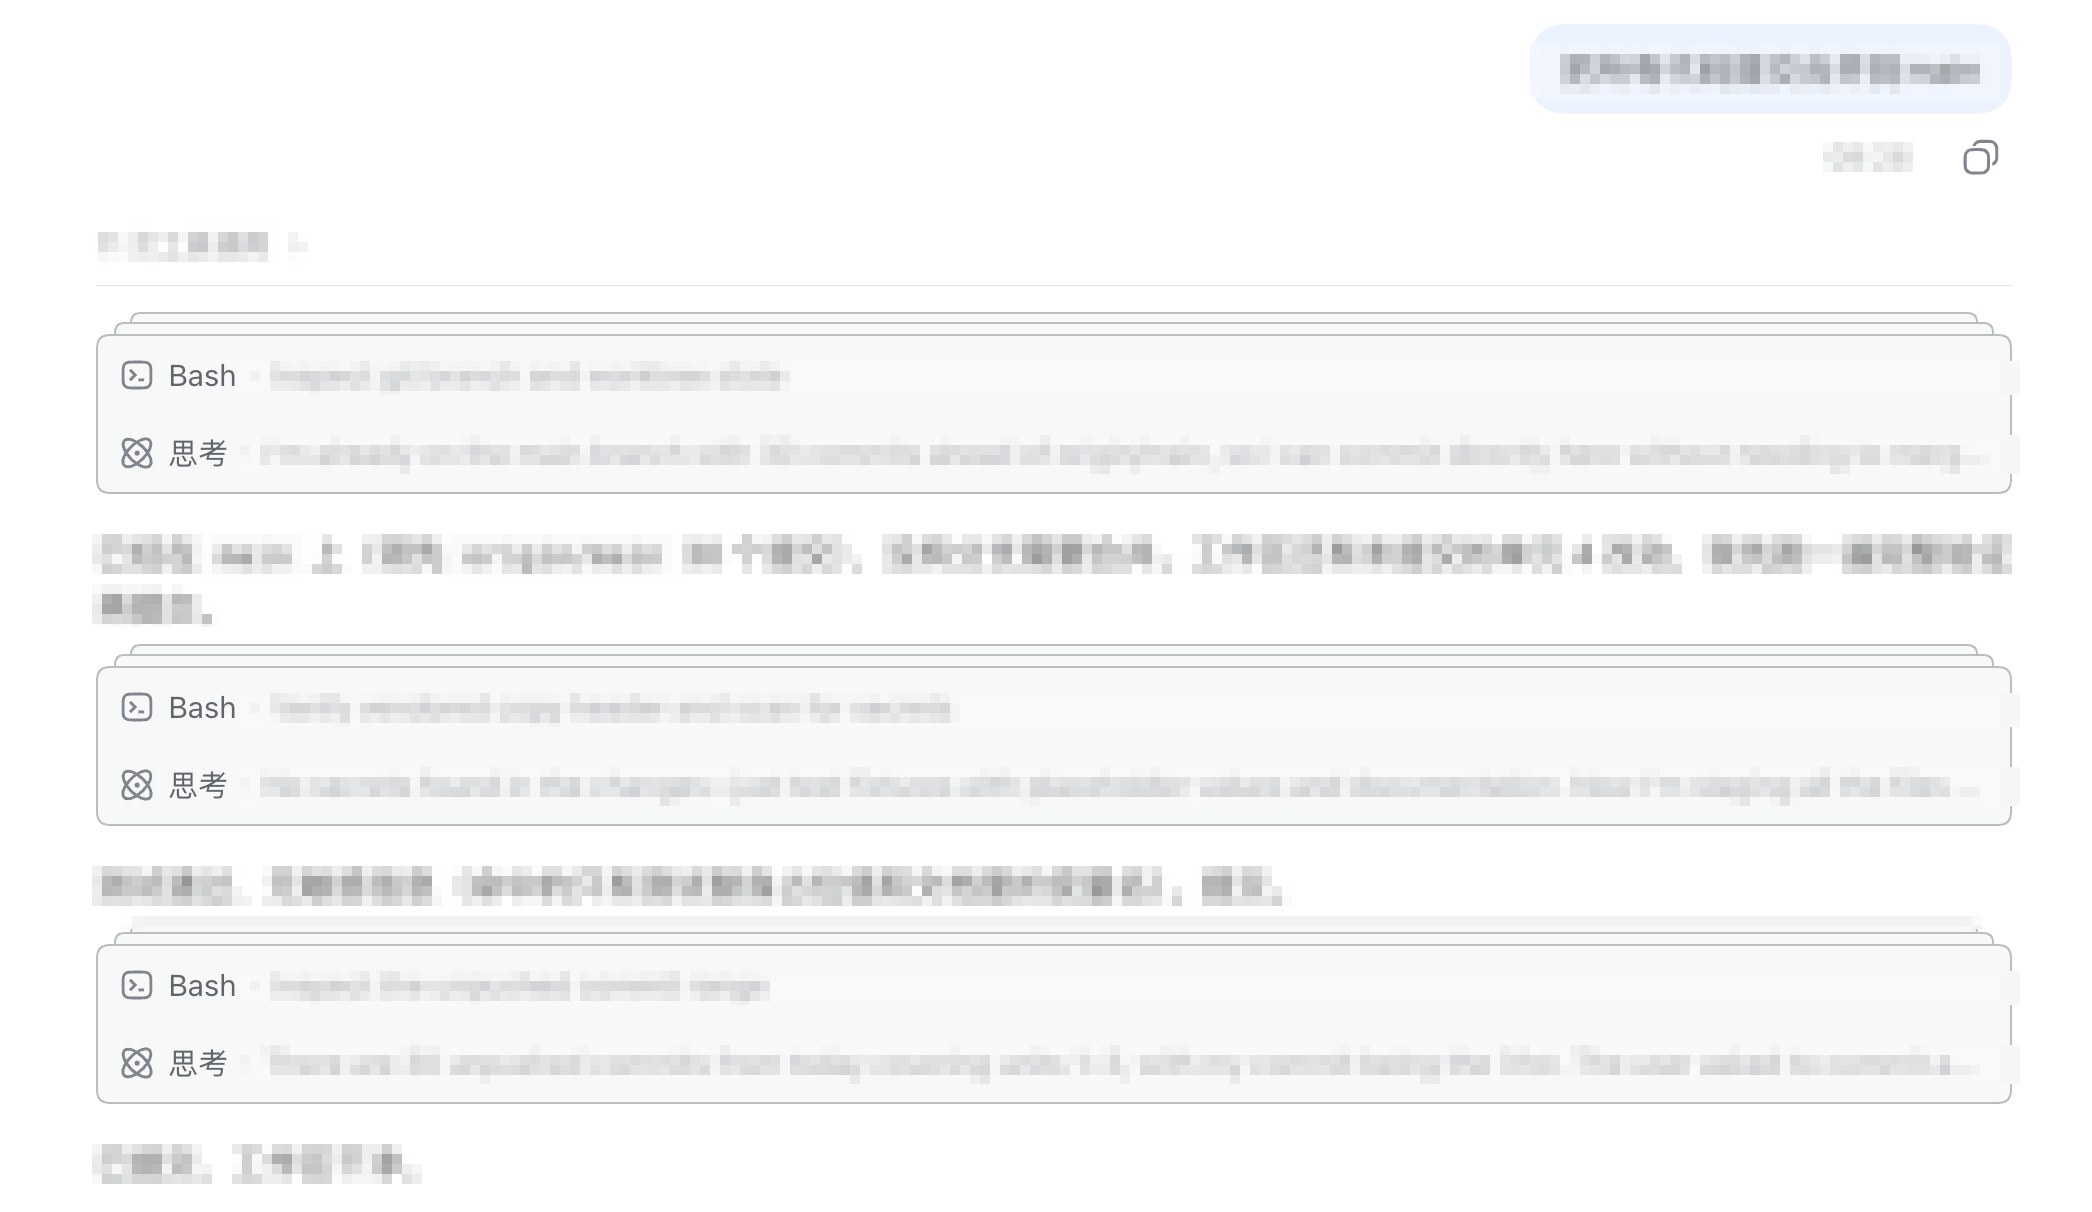
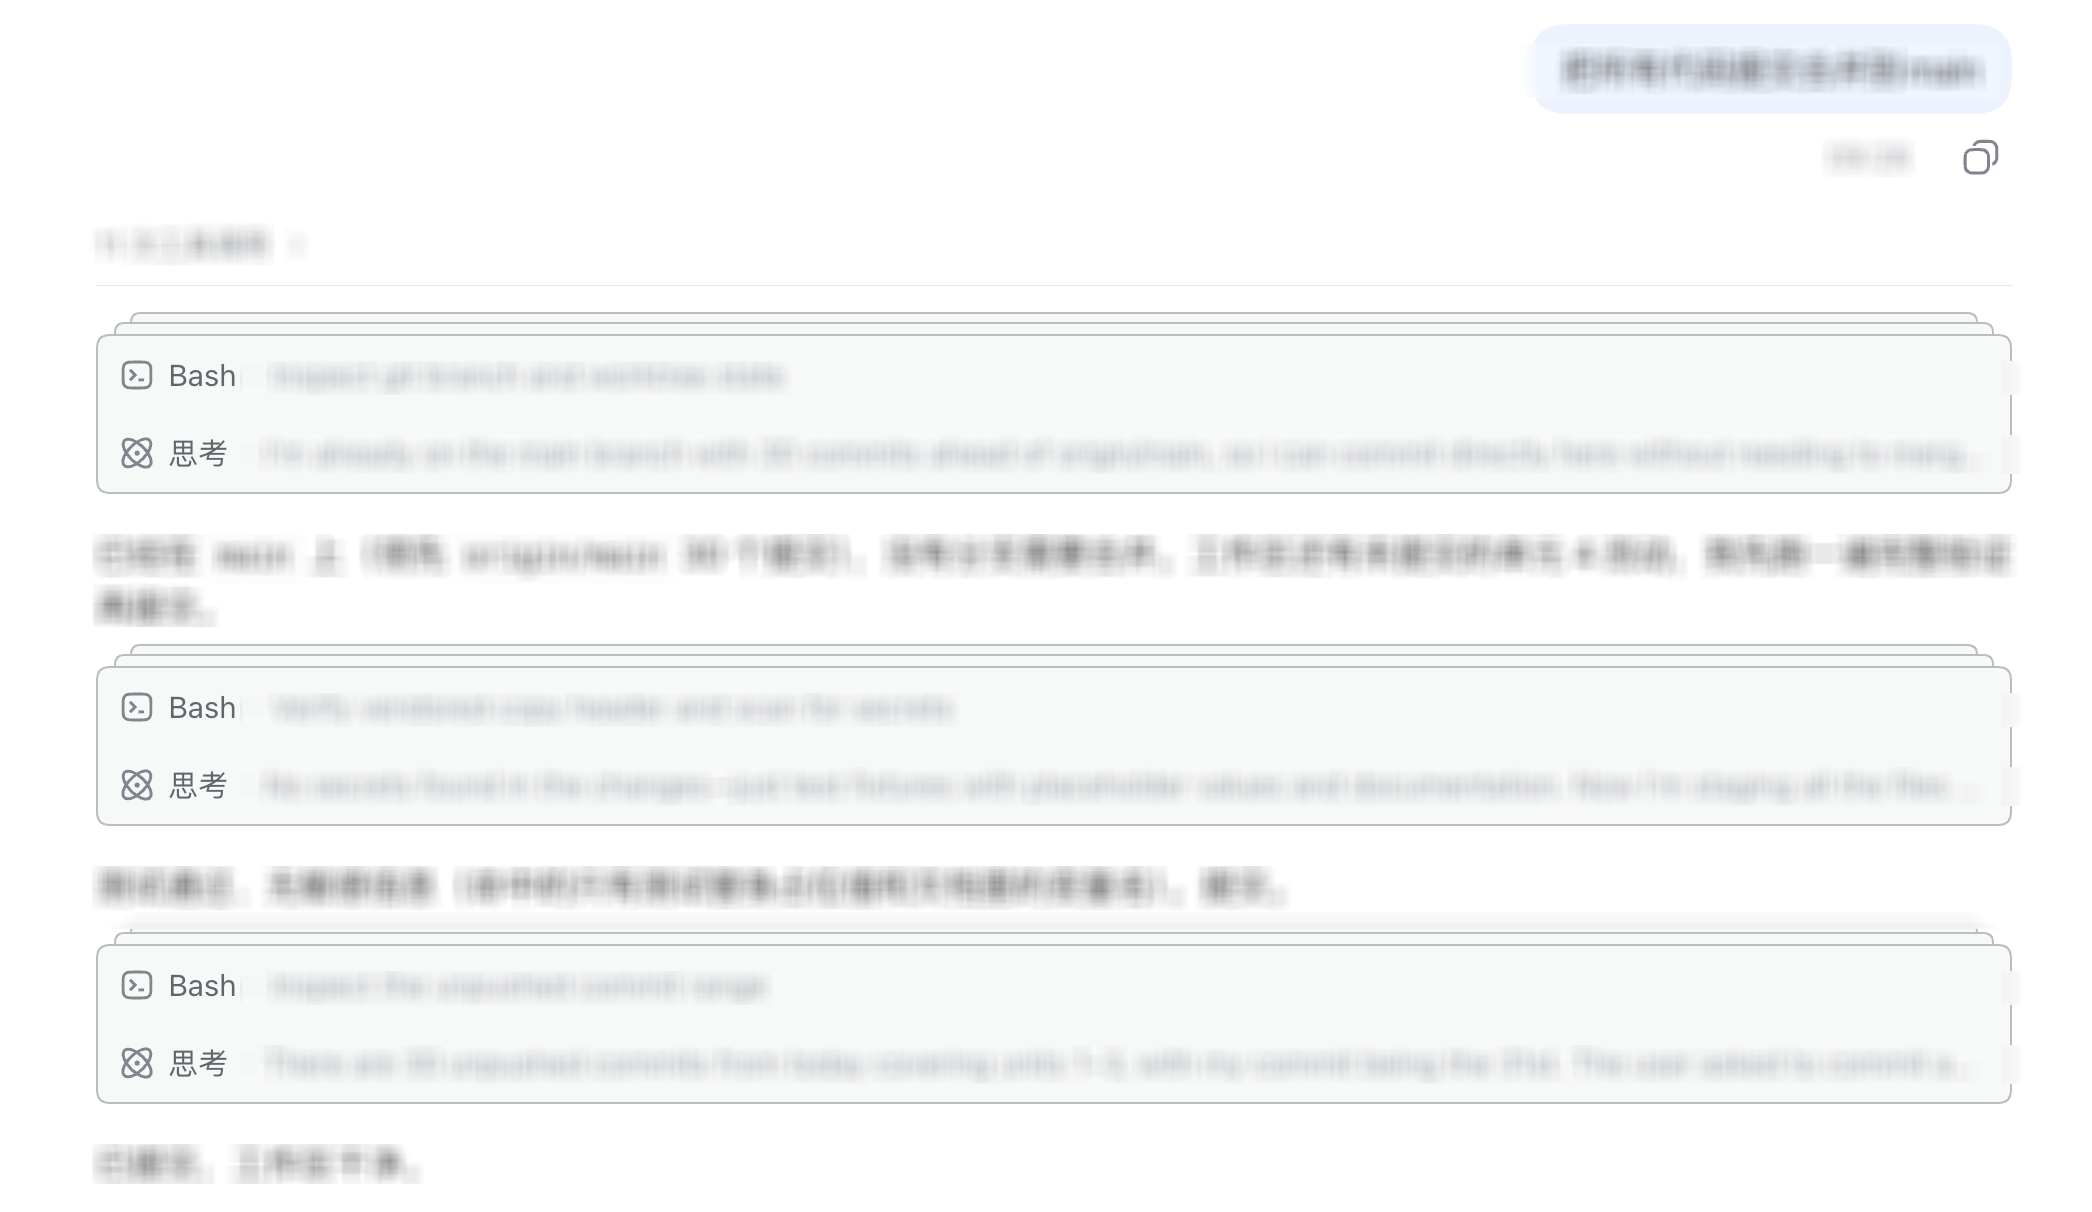
docs: lighten the example screenshot redaction and drop the caption

diff --git a/README.md b/README.md
@@ -5,10 +5,8 @@
 [English](#english) | [中文](#中文)
 
 <p align="center">
-  <img src="docs/assets/process-fold-example.png" alt="dsh-process-fold in a DSH Web turn: folded process boxes, stacked lines above a collapsed box, and model text between boxes (content redacted)" width="860">
+  <img src="docs/assets/process-fold-example.png" alt="dsh-process-fold: a DSH Web turn with collapsed process boxes, stacked lines above a box that hides items, and model text between boxes">
 </p>
-
-<p align="center"><sub>A real turn with three collapsed process boxes. Each box keeps its latest two items; the stacked lines above a top border mark the items it is hiding, and model text stays outside the boxes. Message, tool and thinking content is redacted — <em>一段真实对话里的三个折叠过程框；框上方堆叠的线表示其中还藏着更多项，模型文本留在框外。图片中的消息、工具与思考内容已做打码处理。</em></sub></p>
 
 ## English
 
